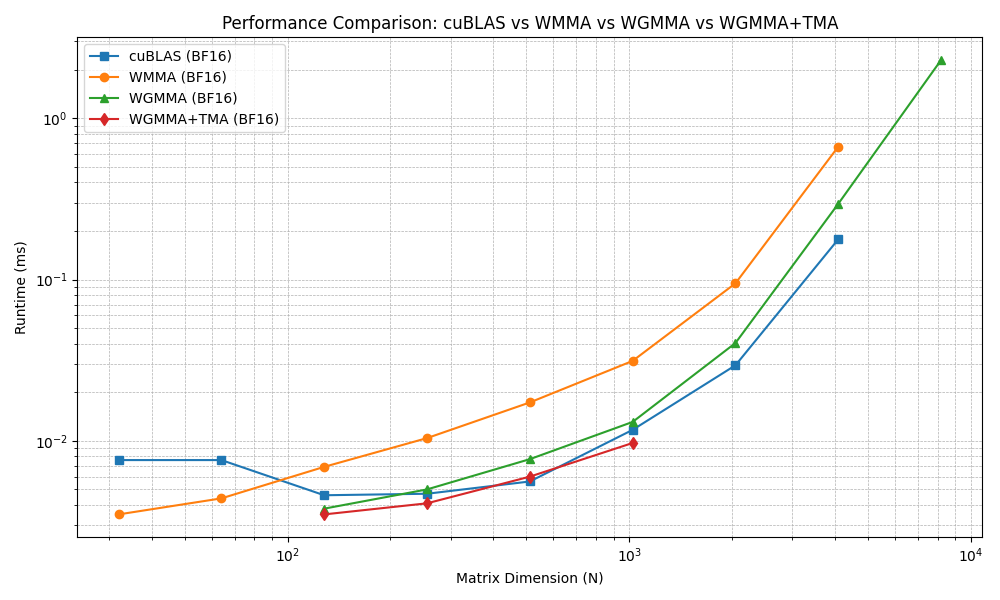
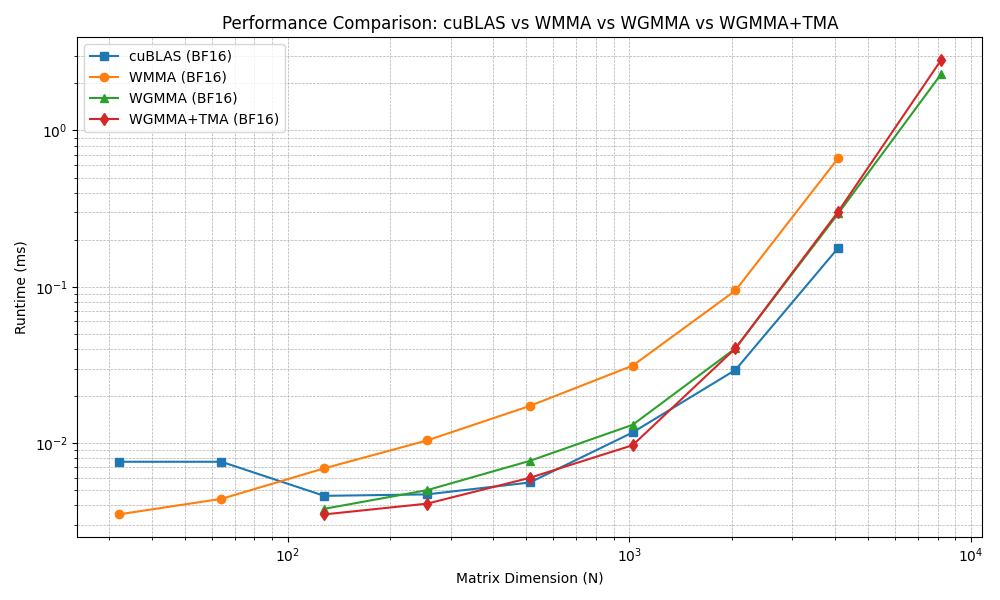
Updated Results

Changed region(s): [[0.031, 0.09, 0.992, 0.87], [0.155, 0.84, 0.186, 0.87]]

diff --git a/results/plot_results.py b/results/plot_results.py
@@ -6,8 +6,8 @@ Usage (run on your local Mac after copying the CSVs):
     python3 plot_results.py
 
 Expects:
-    results/wmma_bench.csv    — output of ./build/03_wmma
-    results/cublas_bench.csv  — output of ./build/02_cublas
+    wmma_out.csv    — output of ./build/03_wmma
+    cublas_out.csv  — output of ./build/02_cublas
 
 Both CSVs share the same format:
     dtype,N,ms,tflops
@@ -38,8 +38,8 @@ plt.rcParams.update({
     "font.size":        11,
 })
 
-WMMA_CSV   = os.path.join("results", "wmma_bench.csv")
-CUBLAS_CSV = os.path.join("results", "cublas_bench.csv")
+WMMA_CSV   = os.path.join("results", "wmma_out.csv")
+CUBLAS_CSV = os.path.join("results", "cublas_out.csv")
 
 def load_csv(path):
     """Return dict: dtype -> {N: ms}"""
@@ -106,8 +106,8 @@ def main():
         if not os.path.exists(p):
             print(f"[ERROR] Missing file: {p}", file=sys.stderr)
             print("Run the benchmarks first:\n"
-                  "  ./build/03_wmma   > results/wmma_bench.csv\n"
-                  "  ./build/02_cublas > results/cublas_bench.csv",
+                  "  ./build/03_wmma   > wmma_out.csv\n"
+                  "  ./build/02_cublas > cublas_out.csv",
                   file=sys.stderr)
             sys.exit(1)
 

diff --git a/results/plot_tflops.py b/results/plot_tflops.py
@@ -36,6 +36,9 @@ BF16+TMA,128,0.0035,1.19
 BF16+TMA,256,0.0041,8.10
 BF16+TMA,512,0.0060,44.56
 BF16+TMA,1024,0.0097,221.37
+BF16+TMA,2048,0.0404,425.11
+BF16+TMA,4096,0.3030,453.57
+BF16+TMA,8192,2.8214,389.70
 """
 
 def extract_df(csv_str): return pd.read_csv(io.StringIO(csv_str))

diff --git a/results/plot_all.py b/results/plot_all.py
@@ -39,6 +39,9 @@ BF16+TMA,128,0.0035,1.19
 BF16+TMA,256,0.0041,8.10
 BF16+TMA,512,0.0060,44.56
 BF16+TMA,1024,0.0097,221.37
+BF16+TMA,2048,0.0404,425.11
+BF16+TMA,4096,0.3030,453.57
+BF16+TMA,8192,2.8214,389.70
 """
 
 def extract_df(csv_str):
